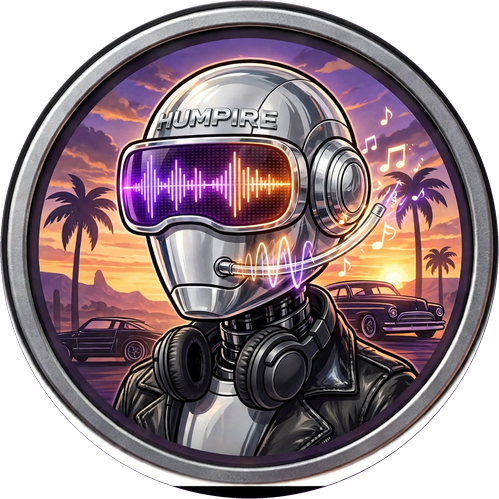
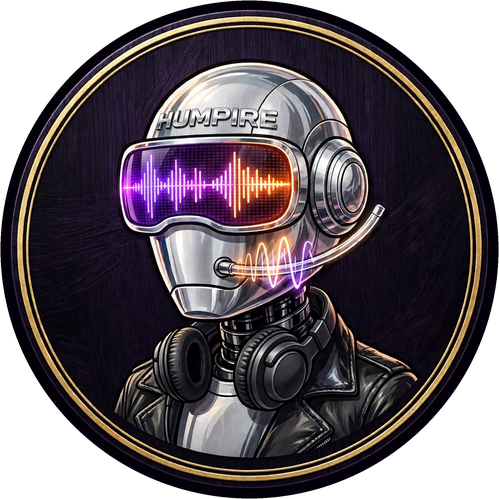
QUEEN OF XMAS diva at the piano; HBX-84 clean robot emblem and a light-sweep animation

diff --git a/HBX84_TALKBOX/Source/PluginEditor.cpp b/HBX84_TALKBOX/Source/PluginEditor.cpp
@@ -162,7 +162,7 @@ TkPanel::TkPanel (TkProcessor& p)
     lnf.faderCap = juce::ImageFileFormat::loadFrom (BinaryData::fader_png, BinaryData::fader_pngSize);
     keys.neon = ember; keys.neonHot = amber;
     keys.setOverlayOnly();   // the keys are part of the faceplate
-    overlay.a = amber; overlay.b = ember; overlay.theme = hfx::Theme::waves;
+    overlay.a = amber; overlay.b = ember; overlay.theme = hfx::Theme::scanner;
     overlay.mascot = { Face::mascotX, Face::mascotY }; overlay.mascotR = Face::mascotR;
     overlay.setTitleFromFace (juce::ImageFileFormat::loadFrom (BinaryData::faceplate_jpg, BinaryData::faceplate_jpgSize),
                               { Face::titleX, Face::titleY, Face::titleW, Face::titleH });   // light from the real letters
